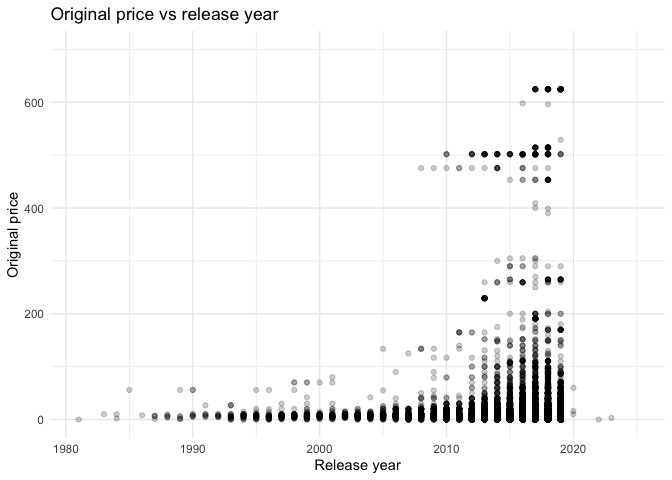
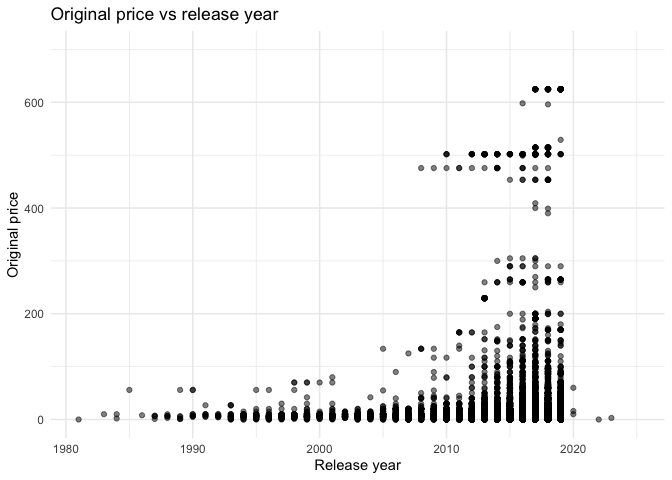
1

diff --git a/mini-project-2.md b/mini-project-2.md
@@ -155,11 +155,11 @@ for!
 # Compute the price_range, mean, median, and max_price of original price across the groups of release_years.
 
 st_games <- datateachr::steam_games %>%
-separate(release_date,
-        into = c("month_day", "year"),
-        sep = ",\\s*",        
-        remove = FALSE) %>%
-mutate(release_year = as.integer(year)) 
+  separate(release_date,
+           into = c("month_day", "year"),
+           sep = ",\\s*",        
+           remove = FALSE) %>%
+  mutate(release_year = as.integer(year)) 
 ```
 
     ## Warning: Expected 2 pieces. Additional pieces discarded in 1 rows [36325].
@@ -178,13 +178,11 @@ mutate(release_year = as.integer(year))
 q1_summary  <- st_games %>%
   filter(!is.na(release_year)) %>%
   group_by(release_year) %>%
-  summarise(
-  n = n(),
-  price_range = max(original_price, na.rm = TRUE) - min(original_price, na.rm = TRUE),
-  mean_price  = mean(original_price, na.rm = TRUE),
-  median_price = median(original_price, na.rm = TRUE),
-  max_price   = max(original_price, na.rm = TRUE)
-  ) %>%
+  summarise(n = n(),
+            price_range = max(original_price, na.rm = TRUE) - min(original_price, na.rm = TRUE),
+            mean_price  = mean(original_price, na.rm = TRUE),
+            median_price = median(original_price, na.rm = TRUE),
+            max_price   = max(original_price, na.rm = TRUE)) %>%
 arrange(desc(release_year))
 ```
 
@@ -221,14 +219,13 @@ q1_summary
 # Make a graph where it makes sense to customize the alpha transparency.
 
 ggplot(st_games, aes(x = release_year, y = original_price)) +
-  geom_point(alpha = 0.2) +
+  geom_point(alpha = 0.5) +
   coord_cartesian(ylim = c(0, 700)) +
-  # by previous summary, we can see most of the price are under 700, so we can zoom the y axis for a clear view
-  labs(
-    title = "Original price vs release year",
-    x = "Release year",
-    y = "Original price") +
-  theme_minimal()
+# By previous summary, we can see most of the prices are under 700, so we can zoom the y axis for a clear view.
+  labs(title = "Original price vs release year",
+       x = "Release year",
+       y = "Original price") +
+theme_minimal()
 ```
 
     ## Warning: Removed 6116 rows containing missing values or values outside the scale range
@@ -236,6 +233,76 @@ ggplot(st_games, aes(x = release_year, y = original_price)) +
 
 ![](mini-project-2_files/figure-gfm/unnamed-chunk-3-1.png)<!-- -->
 
+**Research question 2: How big are discounts??**
+
+``` r
+# Compute the number of discounted games and the proportion.
+# We need to first filter those original price that greater than 0, otherwise they couldn't be discounted.
+
+st_games <- st_games %>%
+  mutate(discount_rate = if_else(original_price > 0,(original_price - discount_price)/original_price, NA))
+
+q2_summary <- st_games %>%
+  summarise(num_discounted = sum(discount_rate > 0, na.rm = TRUE),
+            num_total = sum(!is.na(discount_rate)),
+            discounted_proportion = num_discounted / num_total)
+q2_summary
+```
+
+    ## # A tibble: 1 × 3
+    ##   num_discounted num_total discounted_proportion
+    ##            <int>     <int>                 <dbl>
+    ## 1           3129     12094                 0.259
+
+``` r
+# Create 3 histograms, with each histogram having different sized bins.
+# Bin1 with width = 0.05
+ggplot(st_games, aes(x = discount_rate)) +
+  geom_histogram(binwidth = 0.05, boundary = 0) +
+  coord_cartesian(xlim = c(0, 1)) +   
+  labs(title = "Discount rate with binwidth = 0.05",
+       x = "Discount rate", y = "Number of games") +
+  theme_minimal()
+```
+
+    ## Warning: Removed 28739 rows containing non-finite outside the scale range
+    ## (`stat_bin()`).
+
+![](mini-project-2_files/figure-gfm/unnamed-chunk-5-1.png)<!-- -->
+
+``` r
+# Bin1 with width = 0.025
+ggplot(st_games, aes(x = discount_rate)) +
+  geom_histogram(binwidth = 0.025, boundary = 0) +
+  coord_cartesian(xlim = c(0, 1)) +
+  labs(title = "Discount rate with binwidth = 0.025",
+       x = "Discount rate", y = "Number of games") +
+  theme_minimal()
+```
+
+    ## Warning: Removed 28739 rows containing non-finite outside the scale range
+    ## (`stat_bin()`).
+
+![](mini-project-2_files/figure-gfm/unnamed-chunk-5-2.png)<!-- -->
+
+``` r
+# Bin1 with width = 0.01
+ggplot(st_games, aes(x = discount_rate)) +
+  geom_histogram(binwidth = 0.01, boundary = 0) +
+  coord_cartesian(xlim = c(0, 1)) +
+  labs(title = "Discount rate with binwidth = 0.01",
+       x = "Discount rate", y = "Number of games") +
+  theme_minimal()
+```
+
+    ## Warning: Removed 28739 rows containing non-finite outside the scale range
+    ## (`stat_bin()`).
+
+![](mini-project-2_files/figure-gfm/unnamed-chunk-5-3.png)<!-- -->
+
+**I think the best bin width would be 0.025, as it’s very clear to read
+the discount rate and the columns are not that thin or fat, which
+clearly shows the difference in numbers of games.**
 <!----------------------------------------------------------------------------->
 
 ### 1.3 (2 points)
